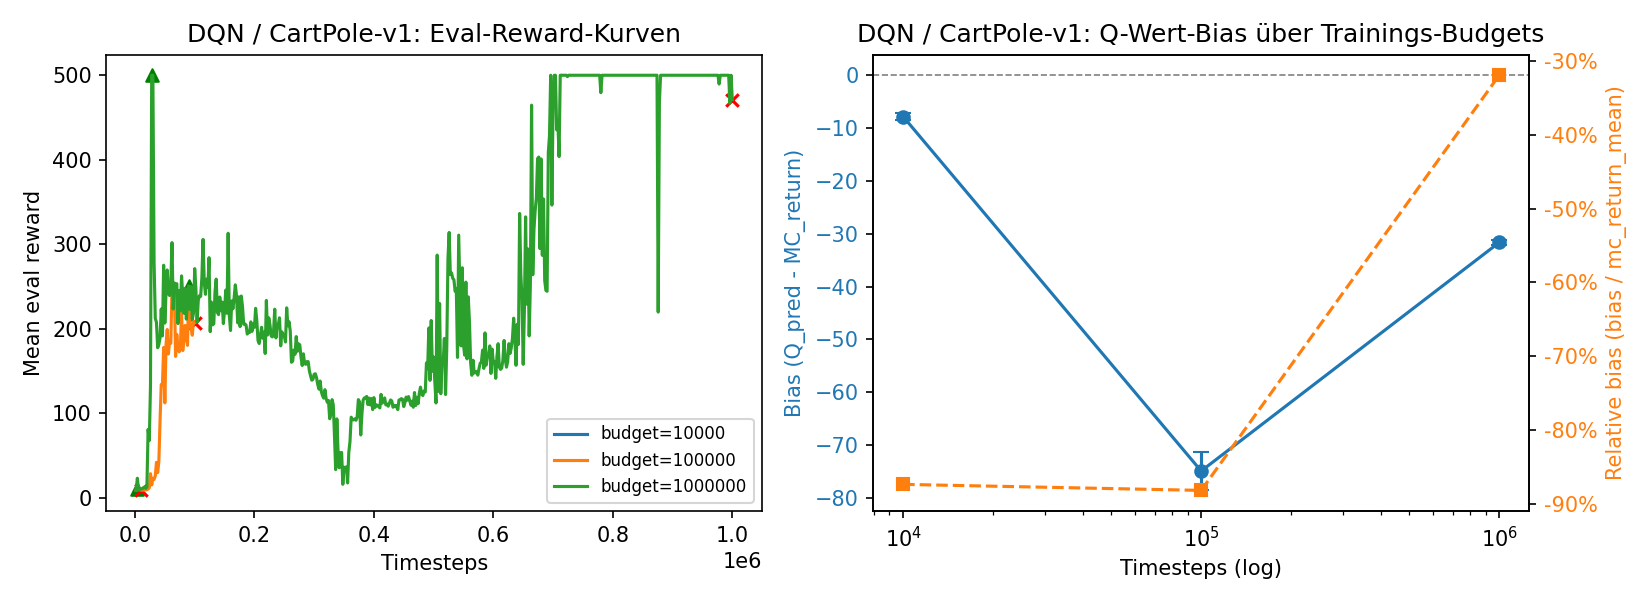
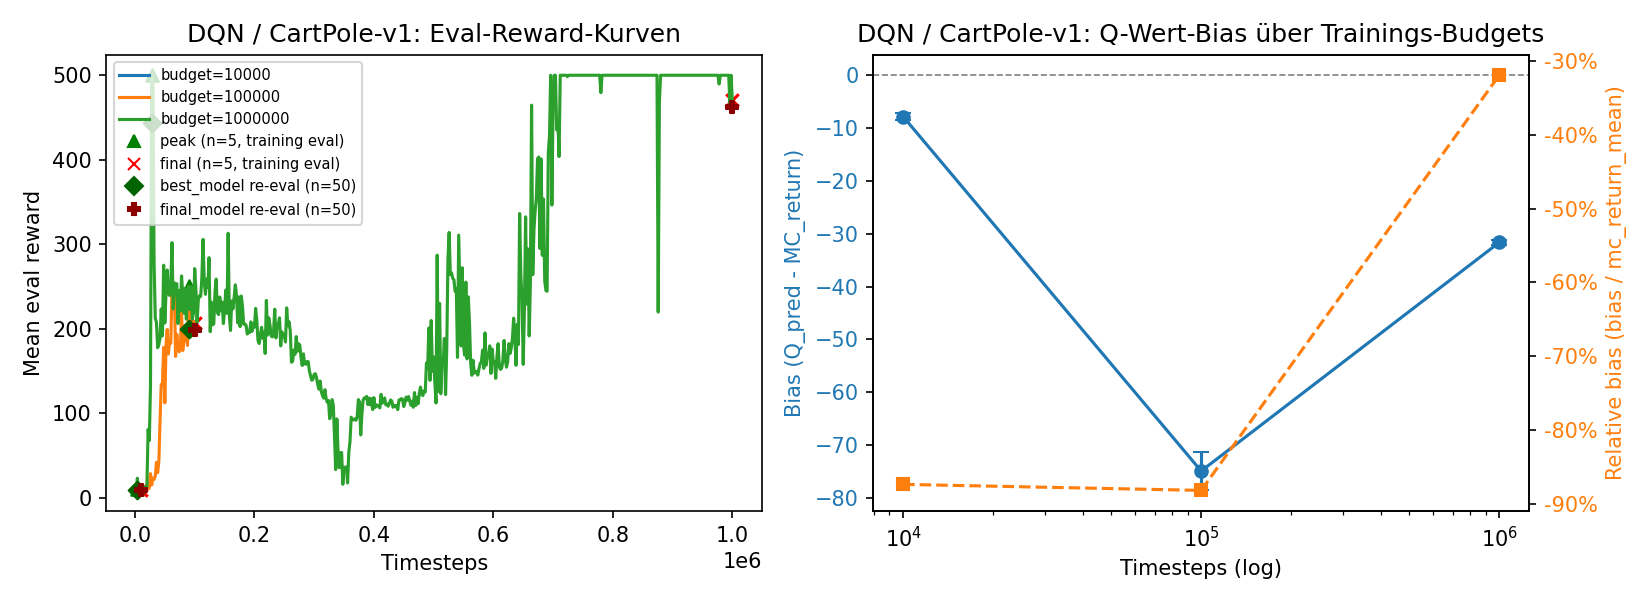
add best_model evaluation

diff --git a/evaluate_models.py b/evaluate_models.py
@@ -14,6 +14,16 @@ Two building blocks per run:
      use the same seed, they are a rough (3-point) approximation of the
      time course of a single training run.
 
+  3. Independent re-evaluation of best_model vs. final_model:
+     The peak-vs-final degradation in evaluations.npz is based on only
+     n_eval_episodes=5 per checkpoint, and since best_model/final_model
+     share the same seed + eval schedule (SAC and TD3 in particular both
+     peak/collapse at the exact same timestep), that gap could just be
+     correlated eval-sampling noise rather than a real difference. This
+     re-evaluates both checkpoints independently with a much larger
+     episode count and a seed that is not the training-time eval seed, to
+     check whether the gap survives under a cleaner test.
+
 Output: results/model_evaluation.csv + one plot per algo/env in results/.
 """
 
@@ -25,6 +35,7 @@ import gymnasium as gym
 import matplotlib.pyplot as plt
 import numpy as np
 from stable_baselines3 import DQN, SAC, TD3
+from stable_baselines3.common.evaluation import evaluate_policy
 
 from Qvalue_bias import estimate_bias_over_random_states
 
@@ -34,6 +45,11 @@ MODELS_DIR = Path("models")
 RESULTS_DIR = Path("results")
 BIAS_N_STATES = 50
 BIAS_SEED = 12345  # for comparing runs against each other
+
+RE_EVAL_N_EPISODES = 50
+# deliberately different from the training-time eval seed (cfg.seed + 1000),
+# so this isn't correlated with the original eval schedule
+RE_EVAL_SEED = 777
 
 
 def eval_curve_stats(eval_npz_path: Path) -> dict:
@@ -83,6 +99,63 @@ def bias_stats(algo: str, env_id: str, run_dir: Path) -> dict:
     }
 
 
+def re_evaluate(algo: str, env_id: str, model_path: Path) -> dict:
+    """Independently re-evaluates a saved checkpoint: fresh seed (not the
+    training-time eval seed), many more episodes than the n_eval_episodes=5
+    used during training. Also reports the checkpoint's own num_timesteps,
+    a free cross-check against the peak_timestep read from evaluations.npz.
+    """
+    model = ALGOS[algo].load(model_path)
+    env = gym.make(env_id)
+    env.reset(seed=RE_EVAL_SEED)
+
+    mean_reward, std_reward = evaluate_policy(
+        model, env, n_eval_episodes=RE_EVAL_N_EPISODES, deterministic=True,
+    )
+    env.close()
+
+    return {
+        "reeval_mean": float(mean_reward),
+        "reeval_std": float(std_reward),
+        "saved_at_timesteps": int(model.num_timesteps),
+    }
+
+
+def collapse_check(algo: str, env_id: str, run_dir: Path) -> dict:
+    best_path = run_dir / "best_model"
+    if not (run_dir / "best_model.zip").exists():
+        return {
+            "best_saved_at_timesteps": None,
+            "best_reeval_mean": float("nan"),
+            "best_reeval_std": float("nan"),
+            "final_reeval_mean": float("nan"),
+            "final_reeval_std": float("nan"),
+            "reeval_degradation": float("nan"),
+            "reeval_degradation_sem_ratio": float("nan"),
+        }
+
+    best = re_evaluate(algo, env_id, best_path)
+    final = re_evaluate(algo, env_id, run_dir / "final_model")
+
+    degradation = best["reeval_mean"] - final["reeval_mean"]
+    # standard error of the mean for each side, combined -- a rough signal-
+    # to-noise indicator (how many "SEMs" apart the two means are), not a
+    # formal significance test.
+    sem_best = best["reeval_std"] / (RE_EVAL_N_EPISODES ** 0.5)
+    sem_final = final["reeval_std"] / (RE_EVAL_N_EPISODES ** 0.5)
+    combined_sem = (sem_best ** 2 + sem_final ** 2) ** 0.5
+
+    return {
+        "best_saved_at_timesteps": best["saved_at_timesteps"],
+        "best_reeval_mean": best["reeval_mean"],
+        "best_reeval_std": best["reeval_std"],
+        "final_reeval_mean": final["reeval_mean"],
+        "final_reeval_std": final["reeval_std"],
+        "reeval_degradation": degradation,
+        "reeval_degradation_sem_ratio": degradation / combined_sem if combined_sem else float("nan"),
+    }
+
+
 def evaluate_run(run_dir: Path) -> dict:
     with open(run_dir / "config.json") as f:
         config = json.load(f)
@@ -96,6 +169,7 @@ def evaluate_run(run_dir: Path) -> dict:
     }
     row.update(eval_curve_stats(run_dir / "eval" / "evaluations.npz"))
     row.update(bias_stats(config["algo"], config["env_id"], run_dir))
+    row.update(collapse_check(config["algo"], config["env_id"], run_dir))
     return row
 
 
@@ -105,6 +179,9 @@ def write_csv(rows: list[dict], path: Path) -> None:
         "peak_timestep", "peak_mean", "final_timestep", "final_mean",
         "degradation", "degradation_pct", "curve_std",
         "bias_mean", "bias_std", "relative_bias", "q_pred_mean", "mc_return_mean",
+        "best_saved_at_timesteps", "best_reeval_mean", "best_reeval_std",
+        "final_reeval_mean", "final_reeval_std",
+        "reeval_degradation", "reeval_degradation_sem_ratio",
     ]
     with open(path, "w", newline="") as f:
         writer = csv.DictWriter(f, fieldnames=fieldnames, extrasaction="ignore")
@@ -123,10 +200,29 @@ def plot_algo(algo: str, env_id: str, rows: list[dict], out_path: Path) -> None:
         )
         ax_curve.scatter([row["peak_timestep"]], [row["peak_mean"]], marker="^", color="green")
         ax_curve.scatter([row["final_timestep"]], [row["final_mean"]], marker="x", color="red")
+        # independent re-evaluation (n=RE_EVAL_N_EPISODES, fresh seed) at the same
+        # x-position, if these disagree a lot with the training-time markers
+        # above, the recorded peak/final gap is likely eval-sampling noise.
+        if not np.isnan(row["best_reeval_mean"]):
+            ax_curve.scatter(
+                [row["peak_timestep"]], [row["best_reeval_mean"]],
+                marker="D", color="darkgreen", zorder=5,
+            )
+            ax_curve.scatter(
+                [row["final_timestep"]], [row["final_reeval_mean"]],
+                marker="P", color="darkred", zorder=5,
+            )
     ax_curve.set_title(f"{algo.upper()} / {env_id}: Eval-Reward-Kurven")
     ax_curve.set_xlabel("Timesteps")
     ax_curve.set_ylabel("Mean eval reward")
-    ax_curve.legend(fontsize=8)
+    handles, labels = ax_curve.get_legend_handles_labels()
+    handles += [
+        plt.Line2D([], [], marker="^", color="green", linestyle="", label="peak (n=5, training eval)"),
+        plt.Line2D([], [], marker="x", color="red", linestyle="", label="final (n=5, training eval)"),
+        plt.Line2D([], [], marker="D", color="darkgreen", linestyle="", label=f"best_model re-eval (n={RE_EVAL_N_EPISODES})"),
+        plt.Line2D([], [], marker="P", color="darkred", linestyle="", label=f"final_model re-eval (n={RE_EVAL_N_EPISODES})"),
+    ]
+    ax_curve.legend(handles=handles, fontsize=7)
 
     budgets = [r["timesteps"] for r in rows]
     bias_means = [r["bias_mean"] for r in rows]
@@ -172,6 +268,15 @@ def print_summary(rows: list[dict]) -> None:
                 f"bias_mean={row['bias_mean']:+8.2f} bias_std={row['bias_std']:7.2f} "
                 f"relative_bias={row['relative_bias']:+7.1%}"
             )
+            if not np.isnan(row["best_reeval_mean"]):
+                print(
+                    f"             independent re-eval (n={RE_EVAL_N_EPISODES}): "
+                    f"best={row['best_reeval_mean']:8.1f}±{row['best_reeval_std']:.1f} "
+                    f"(saved@{row['best_saved_at_timesteps']}) "
+                    f"final={row['final_reeval_mean']:8.1f}±{row['final_reeval_std']:.1f} "
+                    f"| gap={row['reeval_degradation']:+7.1f} "
+                    f"({row['reeval_degradation_sem_ratio']:+.1f} SEMs apart)"
+                )
 
 
 def main() -> None:
